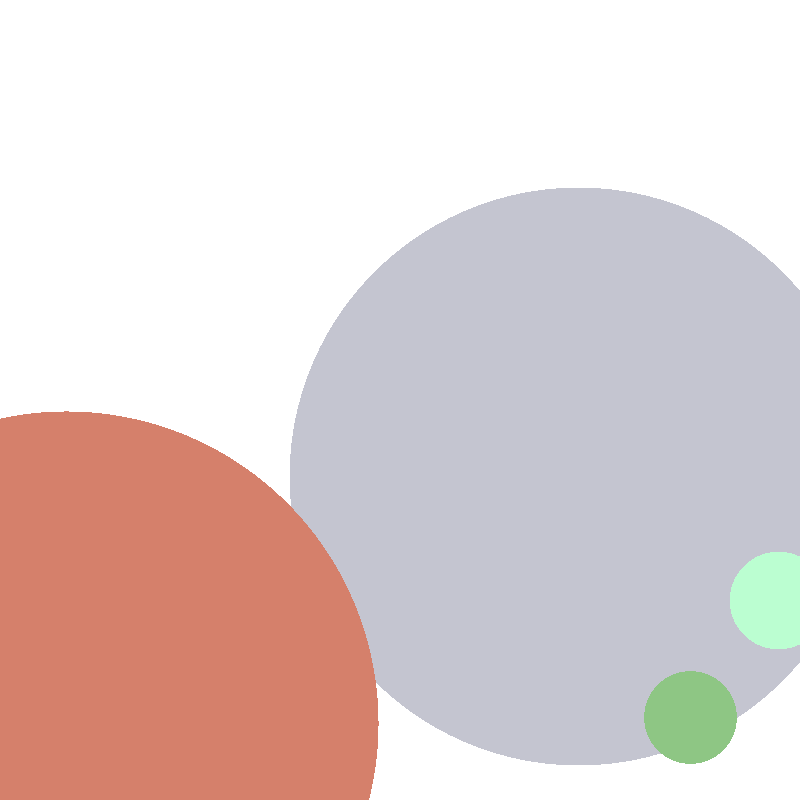
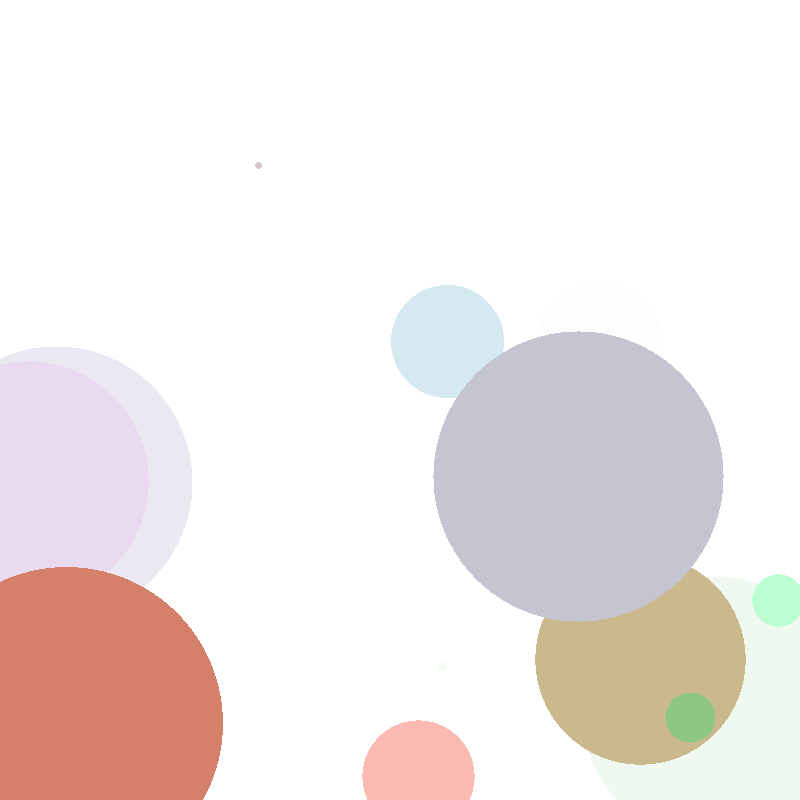
clean up
Move to a ref for the point to share it in the find call
change the radius max number and set a new min

diff --git a/src/main.rs b/src/main.rs
@@ -20,9 +20,9 @@ struct Circle{
 }
 
 impl Circle{
-    fn hit(&self, pixel: Point) -> bool{
+    fn hit(&self, pixel: &Point) -> bool{
         let Point{x:cx,y:cy} = self.center;
-        let Point{x,y} = pixel;
+        let Point{x,y} = *pixel;
         let mid = ((cx-x).pow(2)+(cy-y).pow(2)) as f32;
         let r = (mid).sqrt();
         r <= self.radius
@@ -33,7 +33,8 @@ fn random_objects(x: u32, y: u32, count: u32) -> Vec<Circle>{
     let seed: &[_] = &[1, 2, 3, 4];
     let mut rng: StdRng = SeedableRng::from_seed(seed);
     let mut vec = Vec::with_capacity(count as usize);
-    let radius_between = Range::new(0.0, cmp::max(x/2, y/2) as f32 );
+    let radius_max =  cmp::max(x/4, y/4) as f32;
+    let radius_between = Range::new(2.0, radius_max);
     let x_between = Range::new(0, x as i32);
     let y_between = Range::new(0, y as i32);
     let color_between = Range::new(0, 255);
@@ -58,13 +59,13 @@ fn main() {
 
     let imgx = 800;
     let imgy = 800;
-    let circles = random_objects(imgx, imgy, 4);
+    let circles = random_objects(imgx, imgy, 14);
     // Create a new ImgBuf with width: imgx and height: imgy
     let mut imgbuf = image::ImageBuffer::new(imgx, imgy);
     // Iterate over the coordiantes and pixels of the image
     for (x, y, pixel) in imgbuf.enumerate_pixels_mut() {
         let point = Point{x: x as i32, y: y as i32};
-        if let Some(hit) = circles.iter().find({|circle| circle.hit(Point{x: x as i32, y: y as i32})}){
+        if let Some(hit) = circles.iter().find({|circle| circle.hit(&point)}){
             *pixel = hit.color.clone();
         }
 
